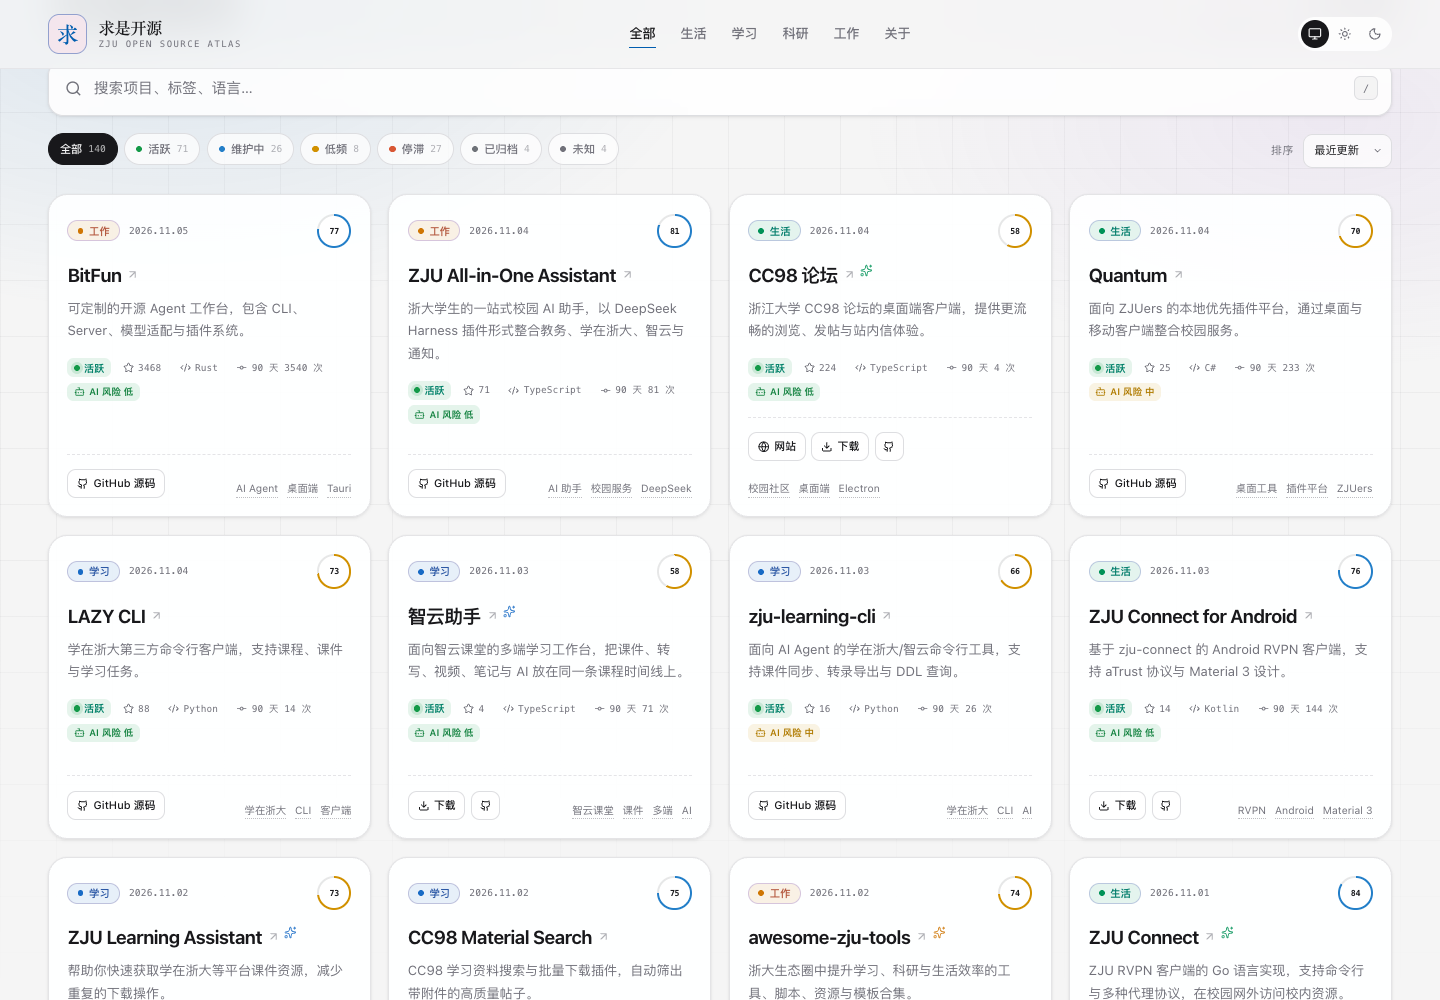
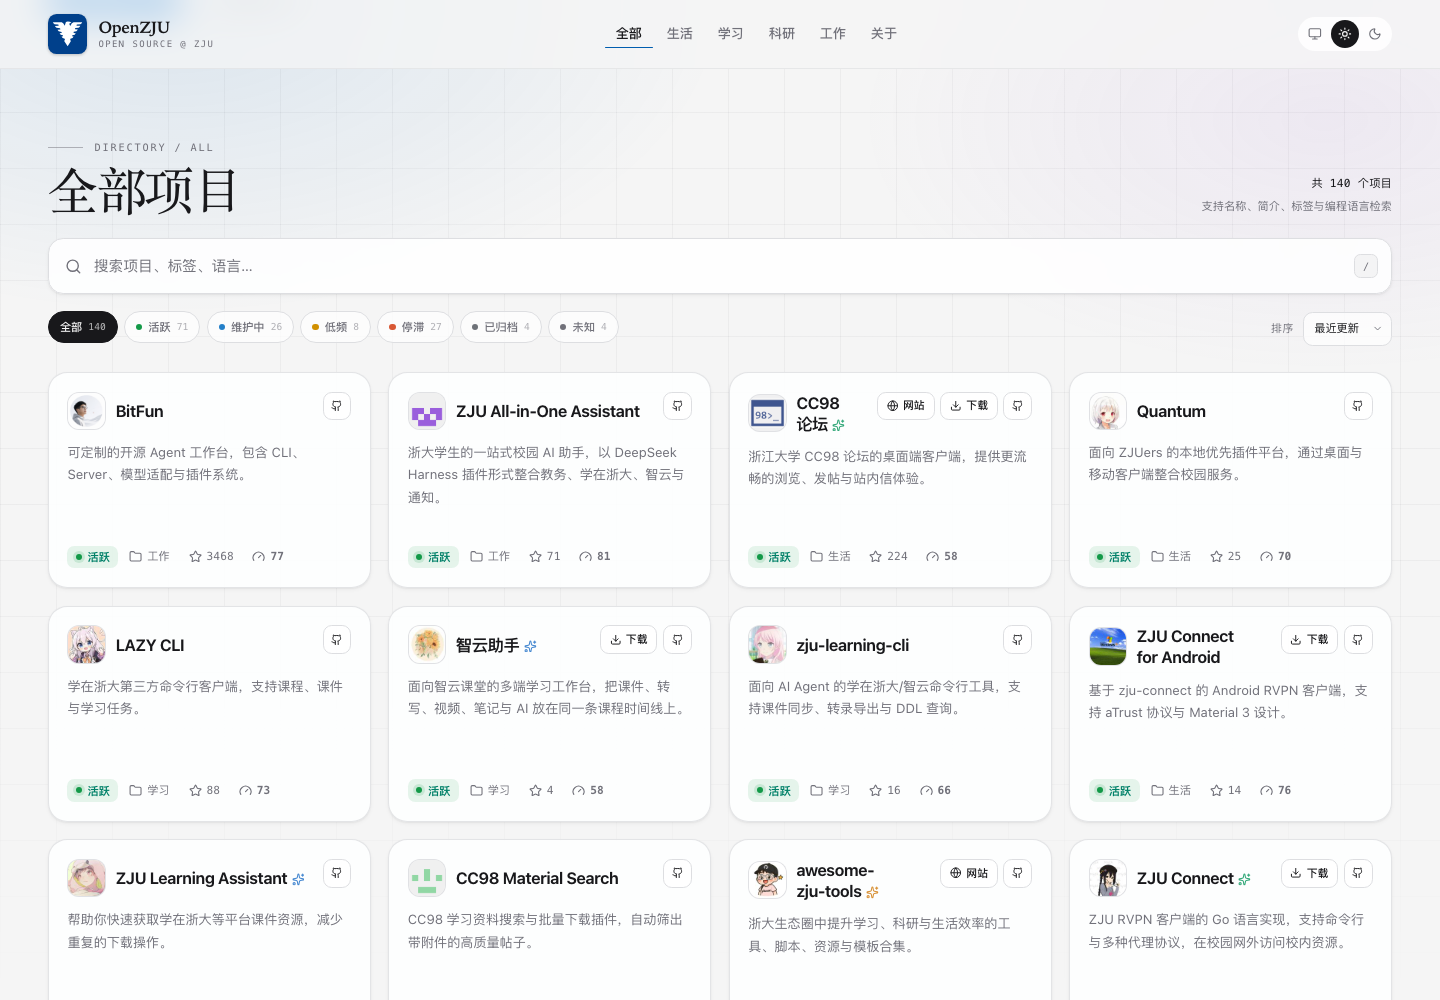
chore(brand): 站点图标更换为求是鹰校徽二创
- favicon 换成浙江大学校徽鹰轮廓（#00408B 底 + 白色鹰体）
- 重出 icon-192/512、apple-touch-icon，og 社交图同步替换标志
- manifest theme_color 对齐 #00408B，README 徽章配色同步
- 重拍 README 截图（旧图还是求是开源时期的版式）

diff --git a/README.en.md b/README.en.md
@@ -4,7 +4,7 @@
   <p>A searchable map of open source projects from Zhejiang University.</p>
 
   <p>
-    <a href="./LICENSE"><img alt="License: GPL-3.0" src="https://img.shields.io/badge/license-GPL--3.0-0b4d8c.svg" /></a>
+    <a href="./LICENSE"><img alt="License: GPL-3.0" src="https://img.shields.io/badge/license-GPL--3.0-00408B.svg" /></a>
     <img alt="Astro" src="https://img.shields.io/badge/Astro-7-ff5d01.svg" />
     <img alt="Tailwind CSS" src="https://img.shields.io/badge/Tailwind_CSS-4-38bdf8.svg" />
     <img alt="HeroUI" src="https://img.shields.io/badge/HeroUI-v3-7c3aed.svg" />

diff --git a/README.md b/README.md
@@ -4,7 +4,7 @@
   <p>一张可检索的浙江大学开源项目地图。</p>
 
   <p>
-    <a href="./LICENSE"><img alt="License: GPL-3.0" src="https://img.shields.io/badge/license-GPL--3.0-0b4d8c.svg" /></a>
+    <a href="./LICENSE"><img alt="License: GPL-3.0" src="https://img.shields.io/badge/license-GPL--3.0-00408B.svg" /></a>
     <img alt="Astro" src="https://img.shields.io/badge/Astro-7-ff5d01.svg" />
     <img alt="Tailwind CSS" src="https://img.shields.io/badge/Tailwind_CSS-4-38bdf8.svg" />
     <img alt="HeroUI" src="https://img.shields.io/badge/HeroUI-v3-7c3aed.svg" />
